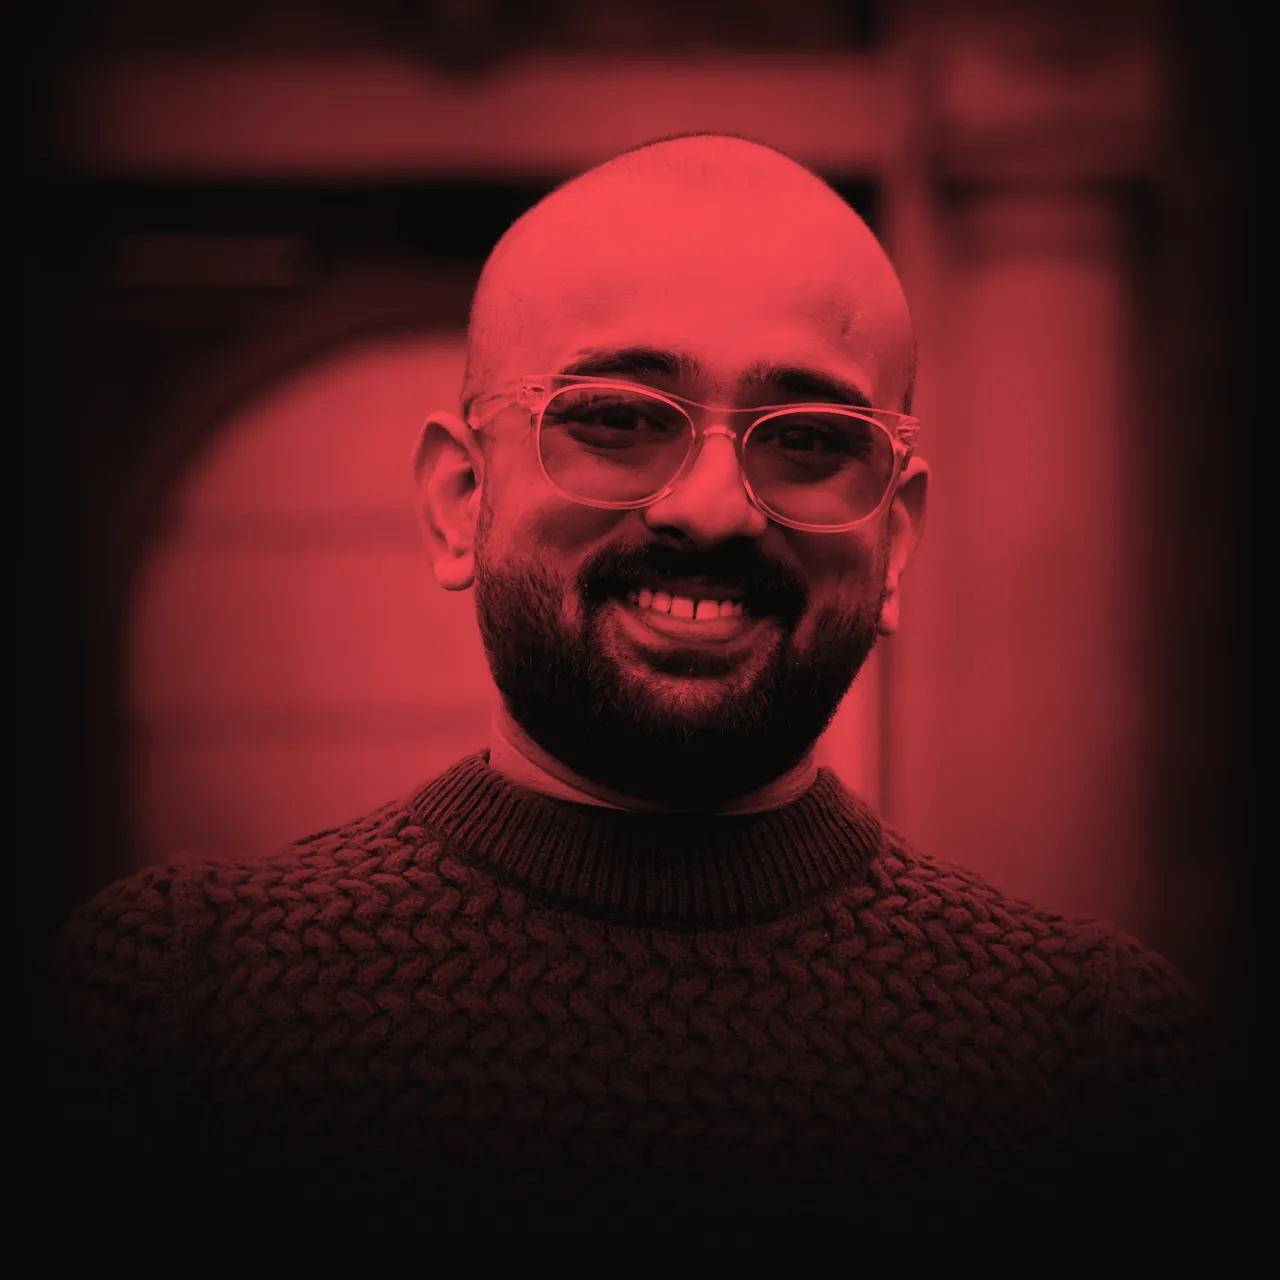
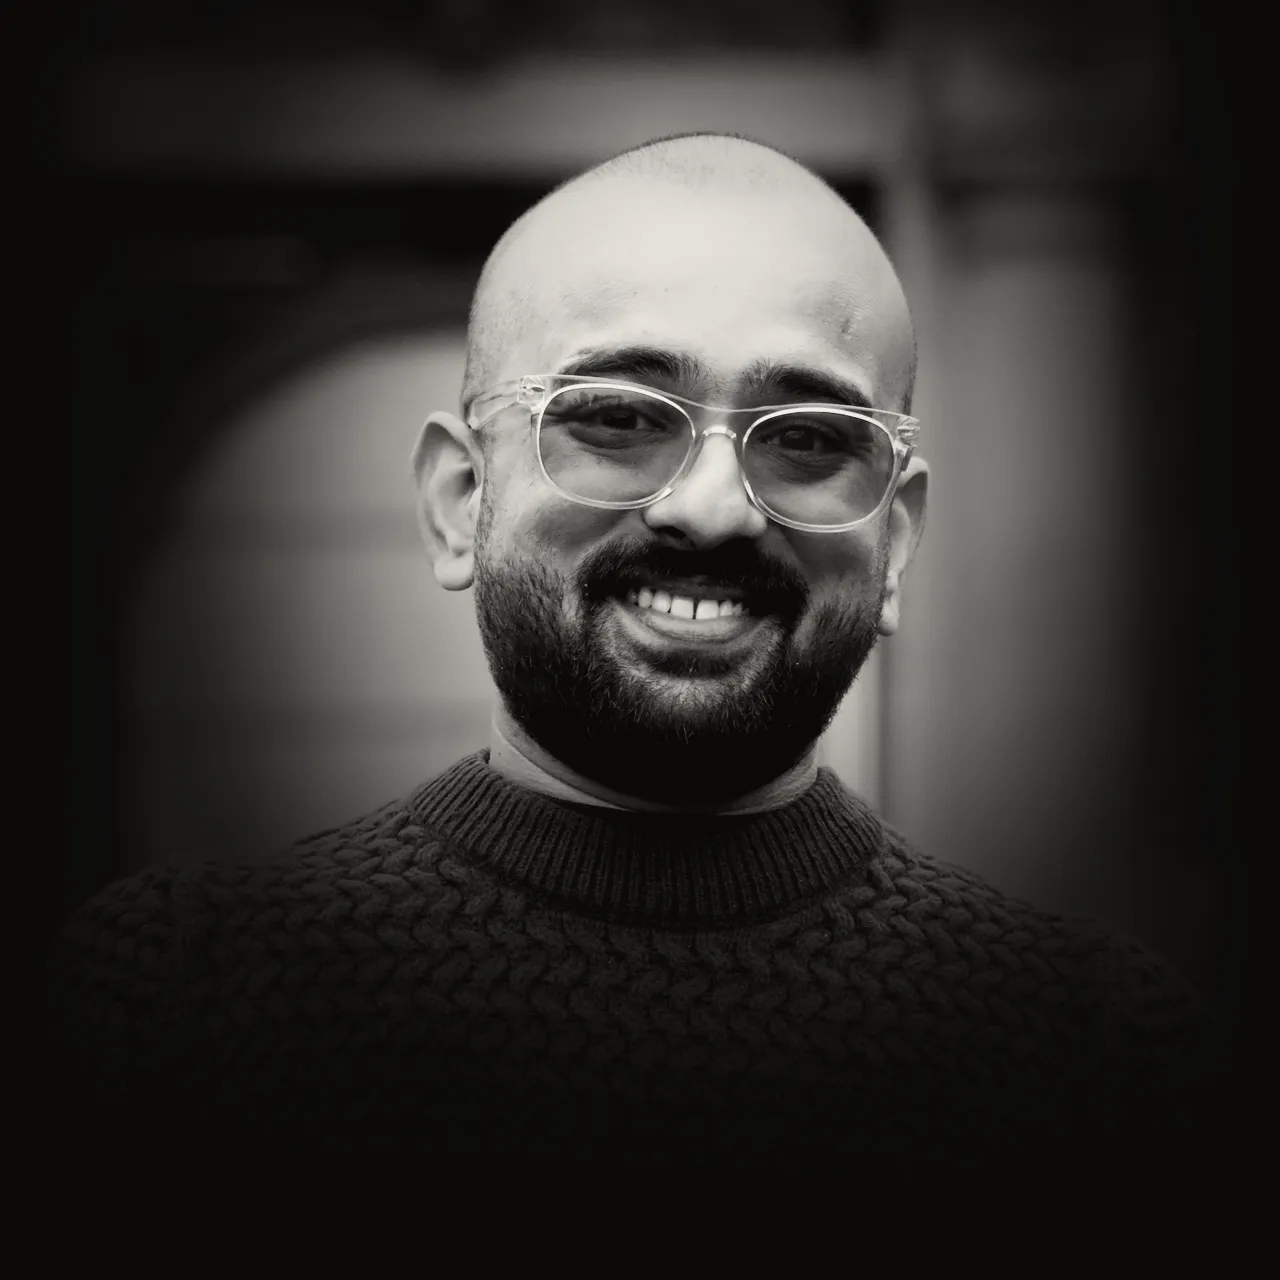
feat: the hero still is a cream duotone
Red on a face read as horror, and red means live on this site. The still
is also the particle portrait's source from Phase 11 on.

diff --git a/BUILD-PLAN.md b/BUILD-PLAN.md
@@ -207,7 +207,12 @@ Expand the phase you are about to start into task-level steps before implementin
 **Deliverable:** ~40k GPU particles sampled from the portrait, assembling out of the line
 and dissolving back on scroll, with cursor displacement.
 
-**Files:** `src/lib/gfx/particles.ts`, `scripts/portrait.mjs` (extended to emit sample data)
+**Files:** `src/lib/gfx/{portrait-sample,portrait-dissolve,portrait-tier,portrait-source,particles}.ts`,
+`scene.ts`, `Hero.astro`, `scripts/portrait.mjs` (cream re-bake). No baked sample data: the
+particles are sampled at runtime from the still (design D8).
+
+**Spec:** `docs/superpowers/specs/2026-10-03-phase-11-particle-portrait-design.md` ·
+**Plan:** `docs/superpowers/plans/2026-10-03-phase-11-particle-portrait.md`
 
 **Verification:** holds 60fps on a mid-range laptop. Falls back to the Phase 5 duotone still
 whenever the gate fails. Particle count scales down on weaker hardware rather than dropping
@@ -570,6 +575,12 @@ decision was made; this section records *what it is*.
   other fallbacks: the canvas is inserted only after `new WebGLRenderer` succeeds.
 - **2026-10-01 (Noel)** — **R3 re-confirmed:** the 2D line keeps its dim rule; the tube is full
   strength. Phones get 2D, where the whole line runs behind copy.
+- **2026-10-03 (Noel)** — **The portrait is cream, and the particles are sampled from it at
+  runtime.** The still is re-baked `--ground → --type` with a tighter key light: the red
+  duotone read as horror (every midtone red, no highlight above red, the arch as bright as the
+  face), and red means *live*. The particles read the still's own pixels after load instead of
+  shipping baked sample data, which would cost ~100–150 KB gzip against a 250 KB chunk with
+  132 KB used, and could drift from the still. Phase 11 design D2, D3, D8.
 
 ## Known Gaps
 

diff --git a/docs/superpowers/specs/2026-09-19-signal-path-design.md b/docs/superpowers/specs/2026-09-19-signal-path-design.md
@@ -494,6 +494,11 @@ ships as AVIF + WebP at 480w (1x) and 960w (2x), and its size is recorded in
 mismatched screenshots become one system. `/websites` keeps its plain-colour hero crops
 (§14).
 
+The hero still follows the same rule (Phase 11, D2): `--ground` to `--type`, cream, not red.
+Red mapped onto a face read as horror, and the still is also the particle portrait's only
+source — the particles are sampled from its pixels at runtime and earn their red only as they
+join the line.
+
 **No video.** It is the heaviest thing that can go on a page and the entire pitch is
 performance; a recruiter can click through to five live sites instead. The hover-scroll
 trick on the ring cards covers the motion need at no additional asset cost.
